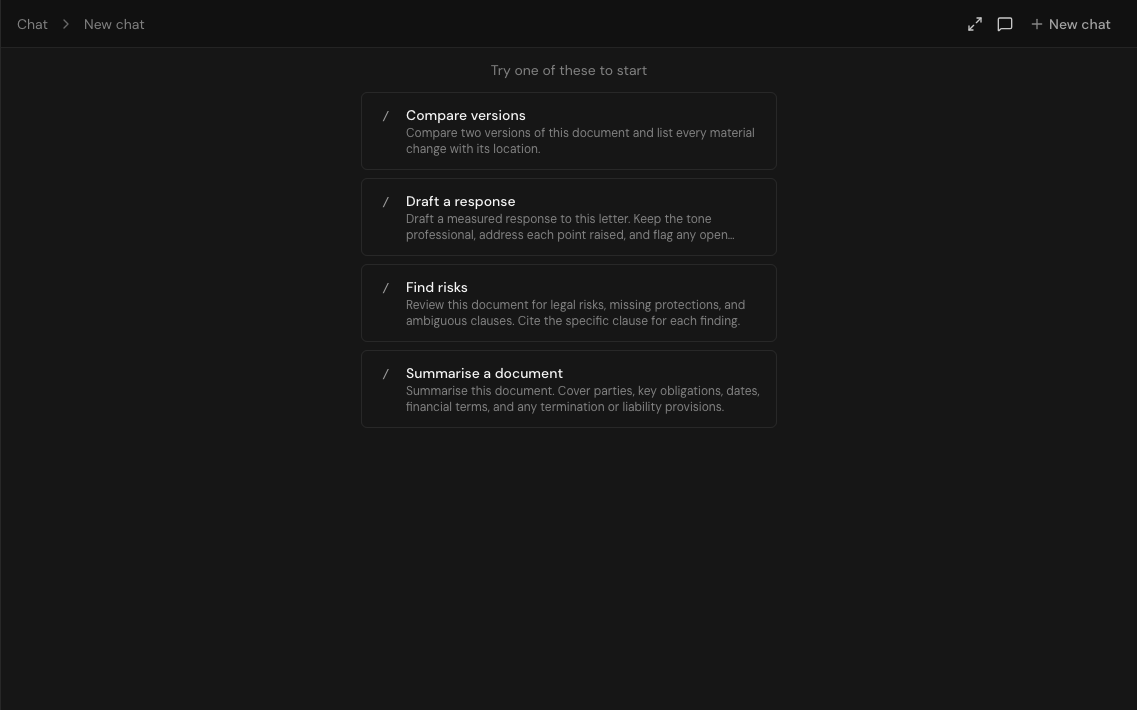
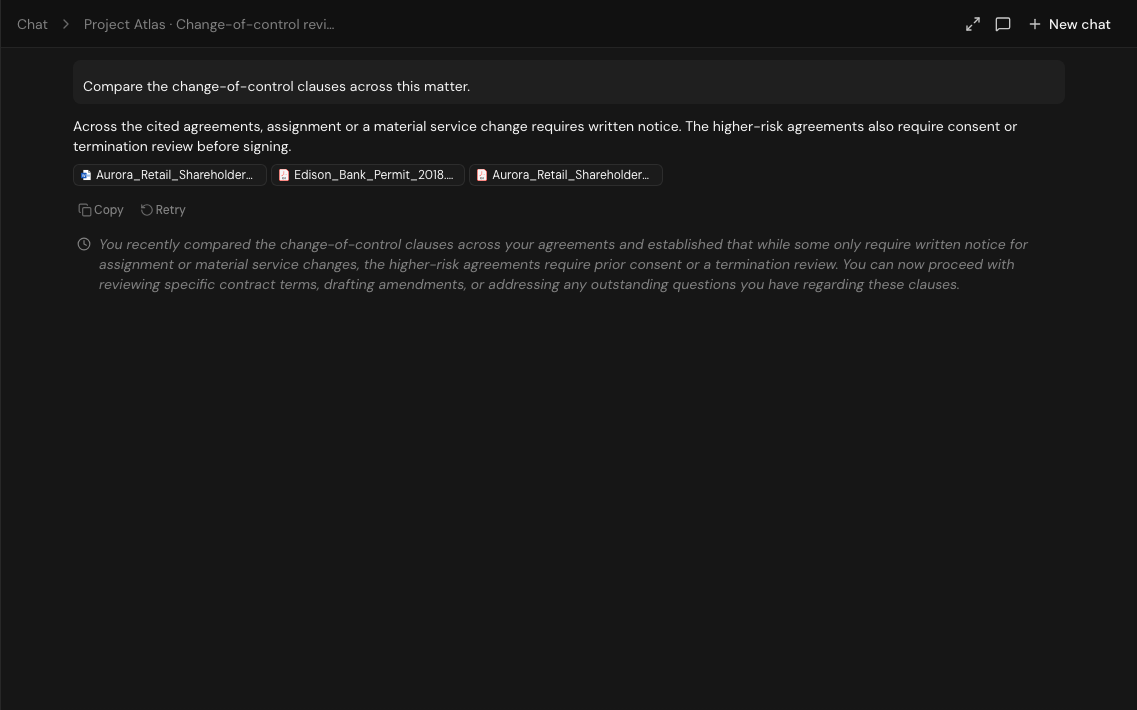
chore(landing): capture the agent screenshot on a real cited conversation
agent.png/agent-dark.png (used in the Product mega-menu's AI agent pane)
were captured at /chat/new: an empty composer with just suggestion cards,
which read as basically empty in the pane.

Point the "agent" capture at the seeded "Change-of-control" thread in the
Export Review matter instead, resolved by title via the chat threads API
(same lookup record-product-story.ts's video recorder already uses,
rather than a fixed thread id). The new prepare step waits for the cited
answer text and a source chip before the shot, so it can never ship a
loading or half-rendered state.

diff --git a/apps/web/e2e/marketing/product-screenshots.spec.ts b/apps/web/e2e/marketing/product-screenshots.spec.ts
@@ -8,6 +8,13 @@ const EXPORT_REVIEW_WORKSPACE_ID = "bb8641dc-0667-574c-8e30-152a1fd4b3f5";
 // `ws-akvizice-energo-doc-7`).
 const SUPPLIER_AGREEMENT_ENTITY_ID = "84824638-eb81-58c5-8a81-5d7e961fb7d5";
 const SUPPLIER_AGREEMENT_FIELD_ID = "3f985a8b-26be-5a07-89d3-2a05acb94354";
+// Seeded "Change-of-control" thread in the Export Review matter (seed-dev.ts
+// `marketing-agent-thread`), already containing the cited Q&A; keep in sync
+// with record-product-story.ts's MARKETING_AGENT_THREAD_TITLE. Resolved by
+// title via the chat threads API rather than a fixed thread id, mirroring
+// the video recorder's resolveMarketingViewRoutes, so the agent screenshot
+// never lands on the empty /chat/new composer.
+const MARKETING_AGENT_THREAD_TITLE = "Project Atlas · Change-of-control review";
 const requestedCapture = process.env["MARKETING_CAPTURE"];
 
 const captures = [
@@ -61,7 +68,14 @@ const captures = [
     readyText: "Supplier_Agreement.docx",
     readySelector: ".layout-run-text",
   },
-  { name: "agent", path: "/chat/new", readyText: "Chat" },
+  {
+    name: "agent",
+    prepare: "open-agent-thread",
+    // The question from the seeded thread; the answer and its source chips
+    // are asserted separately in the "open-agent-thread" prepare block below
+    // so the shot never ships mid-render.
+    readyText: "Compare the change-of-control clauses across this matter.",
+  },
   {
     name: "public-data",
     path: "/law/cases",
@@ -95,6 +109,17 @@ test("capture landing product screenshots", async ({
 
   await page.goto("/workspaces", { waitUntil: "domcontentloaded" });
   await page.getByRole("button", { name: /Test Firm/u }).click();
+  // The org click sets the active-organization cookie asynchronously; wait
+  // for the session to settle before resolving the agent thread below,
+  // otherwise the threads request below can race an unscoped session.
+  await page.waitForLoadState("networkidle");
+
+  // Resolved once (not per capture/theme): only needed when the "agent"
+  // capture is actually part of this run.
+  const agentThreadPath =
+    !requestedCapture || requestedCapture === "agent"
+      ? await resolveAgentThreadPath(page.request)
+      : undefined;
 
   for (const theme of ["light", "dark"] as const) {
     // eslint-disable-next-line no-await-in-loop -- captures reuse one authenticated page, so each theme switch and capture must be prepared and shot in order
@@ -108,8 +133,12 @@ test("capture landing product screenshots", async ({
       if (requestedCapture && capture.name !== requestedCapture) {
         continue;
       }
+      const capturePath = "path" in capture ? capture.path : agentThreadPath;
+      if (!capturePath) {
+        throw new Error(`${capture.name}: no path resolved for this capture`);
+      }
       // eslint-disable-next-line no-await-in-loop -- see above
-      await page.goto(capture.path, { waitUntil: "domcontentloaded" });
+      await page.goto(capturePath, { waitUntil: "domcontentloaded" });
       // eslint-disable-next-line no-await-in-loop -- see above
       await expect(page).not.toHaveURL(/\/sign-in(?:\/|\?|$)/u);
       // eslint-disable-next-line no-await-in-loop -- see above
@@ -177,6 +206,20 @@ test("capture landing product screenshots", async ({
         // eslint-disable-next-line no-await-in-loop -- see above
         await expect(page.getByRole("grid")).toBeVisible();
       }
+      if ("prepare" in capture && capture.prepare === "open-agent-thread") {
+        // The seeded thread already contains the full cited answer; wait for
+        // it and one of its source chips so the shot never lands on a
+        // pre-render/loading state (the empty /chat/new composer this
+        // replaces had neither).
+        // eslint-disable-next-line no-await-in-loop -- see above
+        await expect(
+          page.getByText(/assignment or a material service change/u).first(),
+        ).toBeVisible();
+        // eslint-disable-next-line no-await-in-loop -- see above
+        await expect(
+          page.getByText(/Aurora_Retail_Shareholder_Register_2018/u).first(),
+        ).toBeVisible();
+      }
       // eslint-disable-next-line no-await-in-loop -- see above
       await page.locator("body").waitFor({ state: "visible" });
       // eslint-disable-next-line no-await-in-loop -- see above
@@ -211,6 +254,64 @@ test("capture landing product screenshots", async ({
     }
   }
 });
+
+// Resolves the seeded agent thread's route by title via the chat threads
+// API (same lookup as record-product-story.ts's
+// resolveMarketingViewRoutes/getMarketingAgentThreadId), instead of a fixed
+// thread id that would need updating whenever the dev seed reruns.
+const resolveAgentThreadPath = async (request: APIRequestContext) => {
+  const apiBaseURL = process.env["E2E_API_URL"] ?? "http://localhost:3001";
+  const response = await request.get(`${apiBaseURL}/v1/chat/threads?limit=50`);
+  expect(response.ok(), await response.text()).toBe(true);
+  const threadId = getMarketingAgentThreadId(await response.json());
+  if (!threadId) {
+    throw new Error(
+      `Could not find the seeded "${MARKETING_AGENT_THREAD_TITLE}" thread ` +
+        "for the agent screenshot",
+    );
+  }
+  return `/chat/workspaces/${EXPORT_REVIEW_WORKSPACE_ID}/${threadId}`;
+};
+
+// `Array.isArray` narrows `unknown` to `any[]`; this keeps elements `unknown`.
+const isUnknownArray = (value: unknown): value is unknown[] =>
+  Array.isArray(value);
+
+const getMarketingAgentThreadId = (payload: unknown): string | undefined => {
+  if (
+    typeof payload !== "object" ||
+    payload === null ||
+    !("workspaces" in payload) ||
+    !isUnknownArray(payload.workspaces)
+  ) {
+    return undefined;
+  }
+
+  for (const workspace of payload.workspaces) {
+    if (
+      typeof workspace !== "object" ||
+      workspace === null ||
+      !("threads" in workspace) ||
+      !isUnknownArray(workspace.threads)
+    ) {
+      continue;
+    }
+    for (const thread of workspace.threads) {
+      if (
+        typeof thread === "object" &&
+        thread !== null &&
+        "id" in thread &&
+        typeof thread.id === "string" &&
+        "title" in thread &&
+        thread.title === MARKETING_AGENT_THREAD_TITLE
+      ) {
+        return thread.id;
+      }
+    }
+  }
+
+  return undefined;
+};
 
 const authenticateMarketingSession = async (request: APIRequestContext) => {
   const apiBaseURL = process.env["E2E_API_URL"] ?? "http://localhost:3001";
